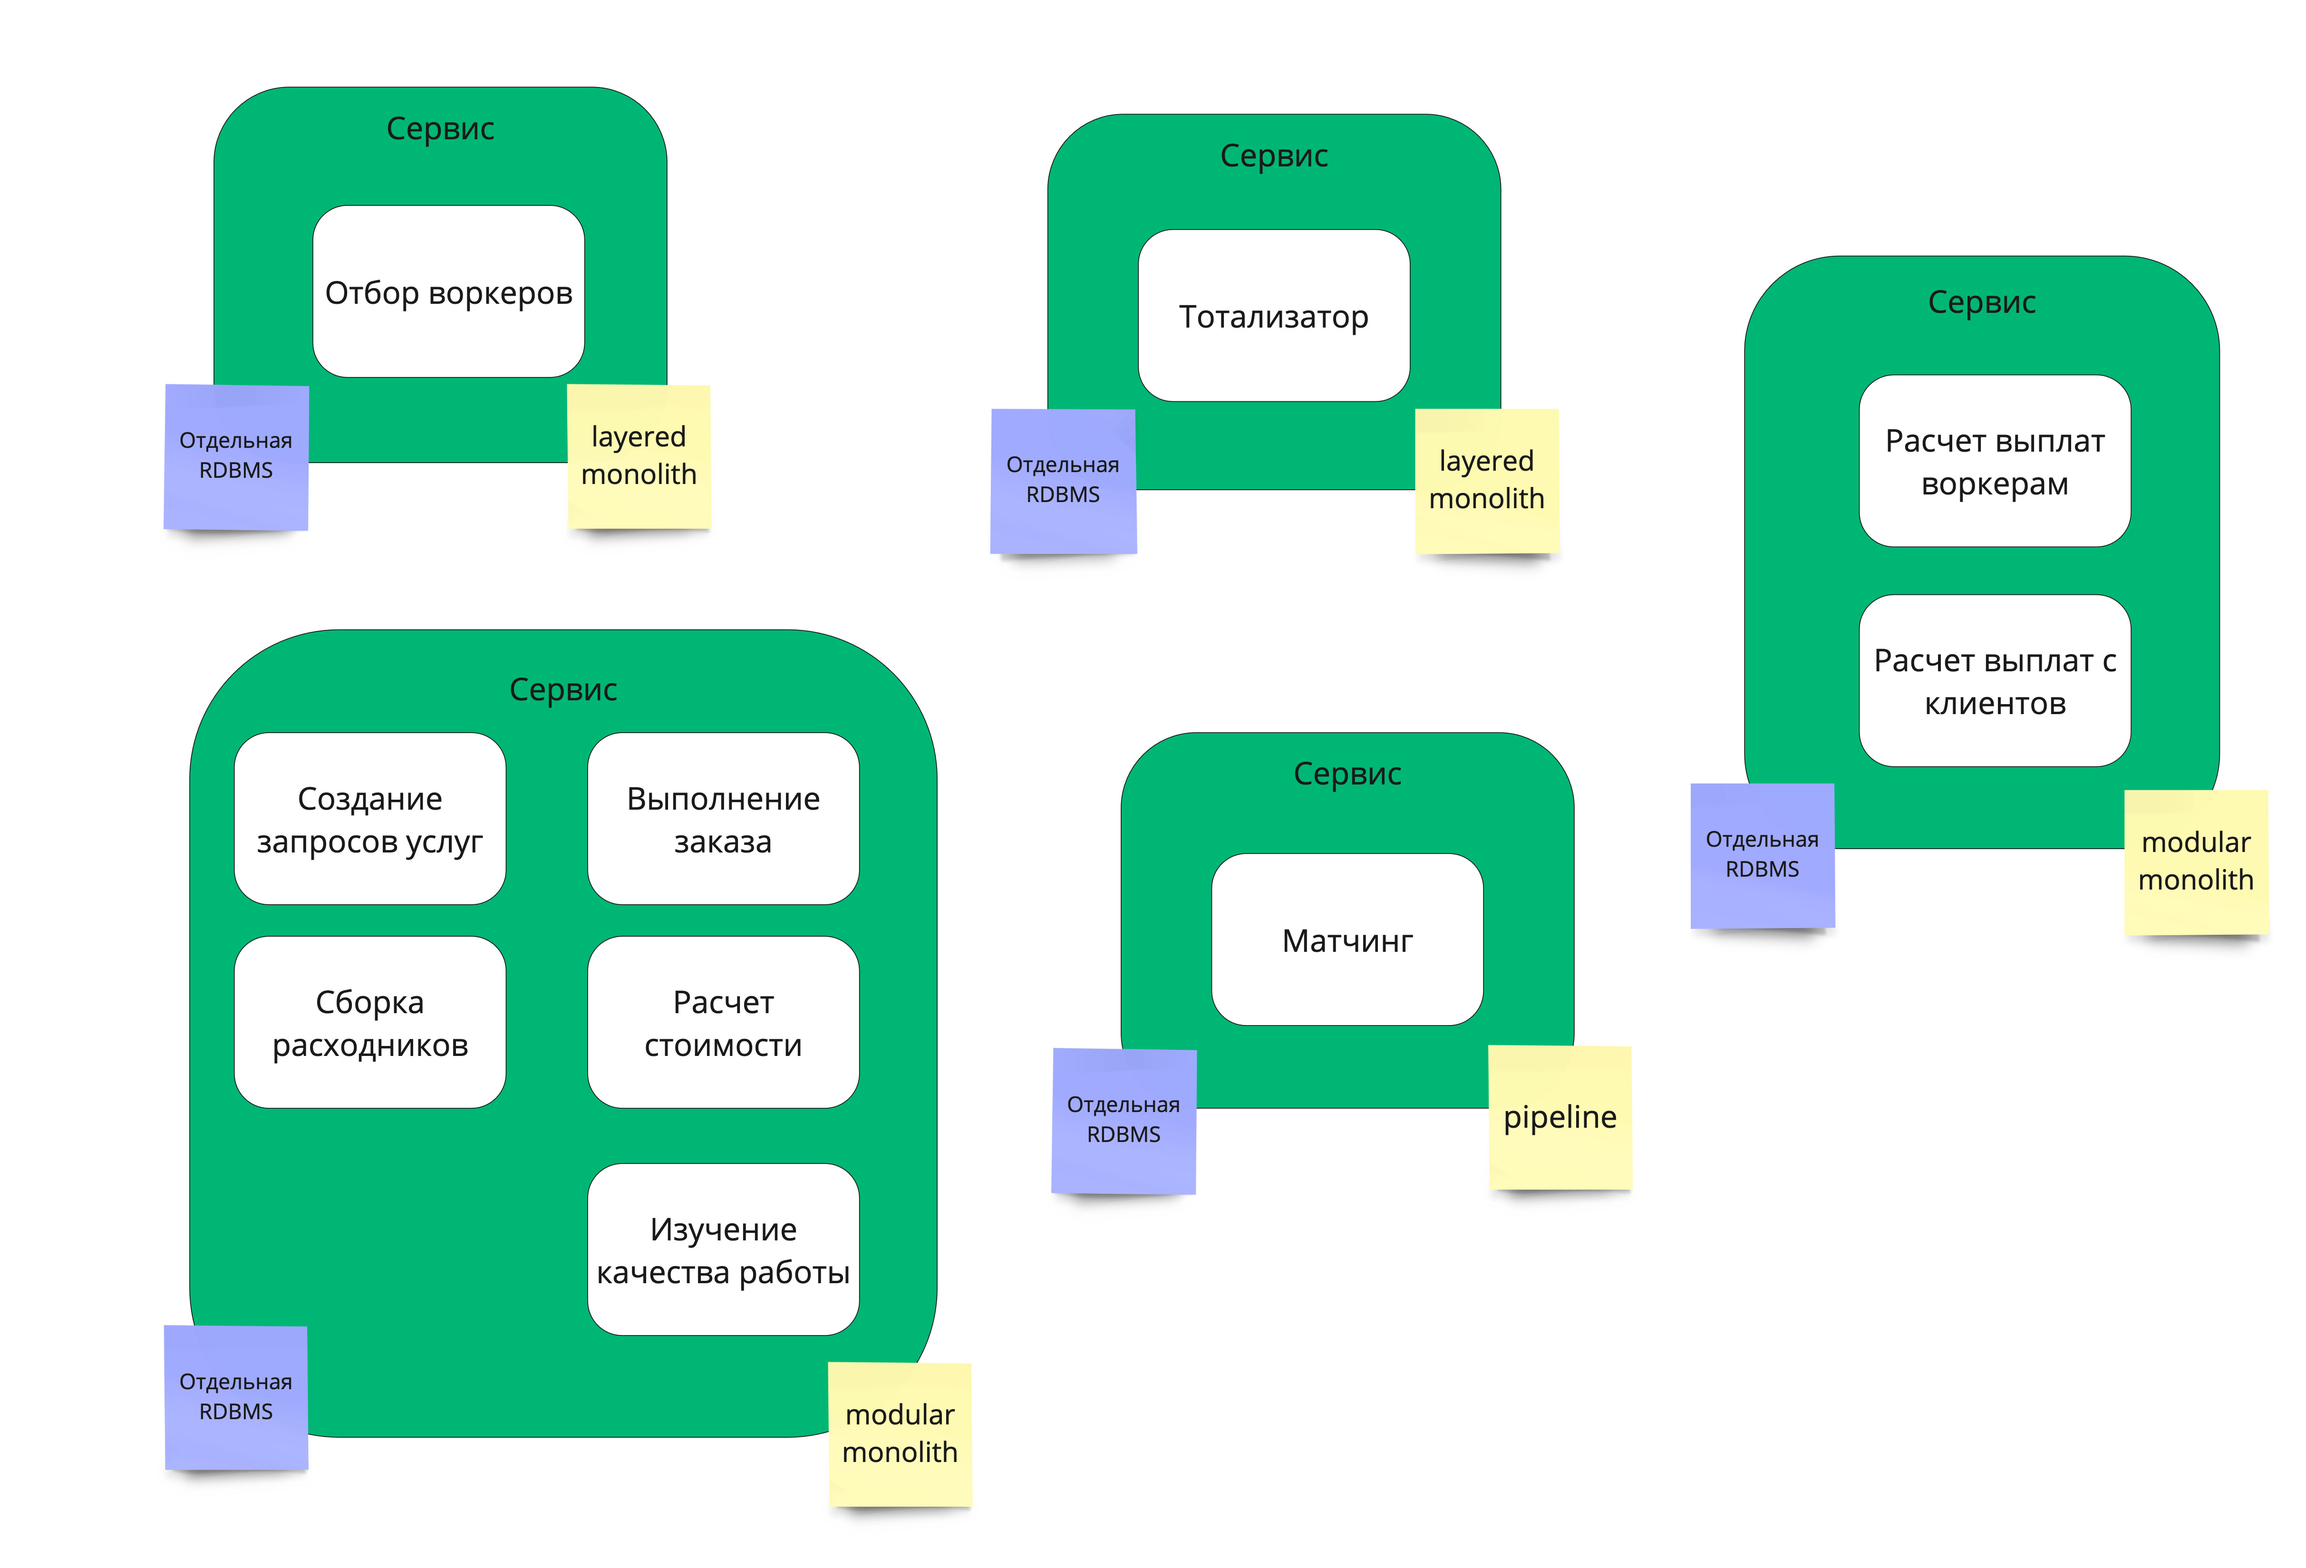
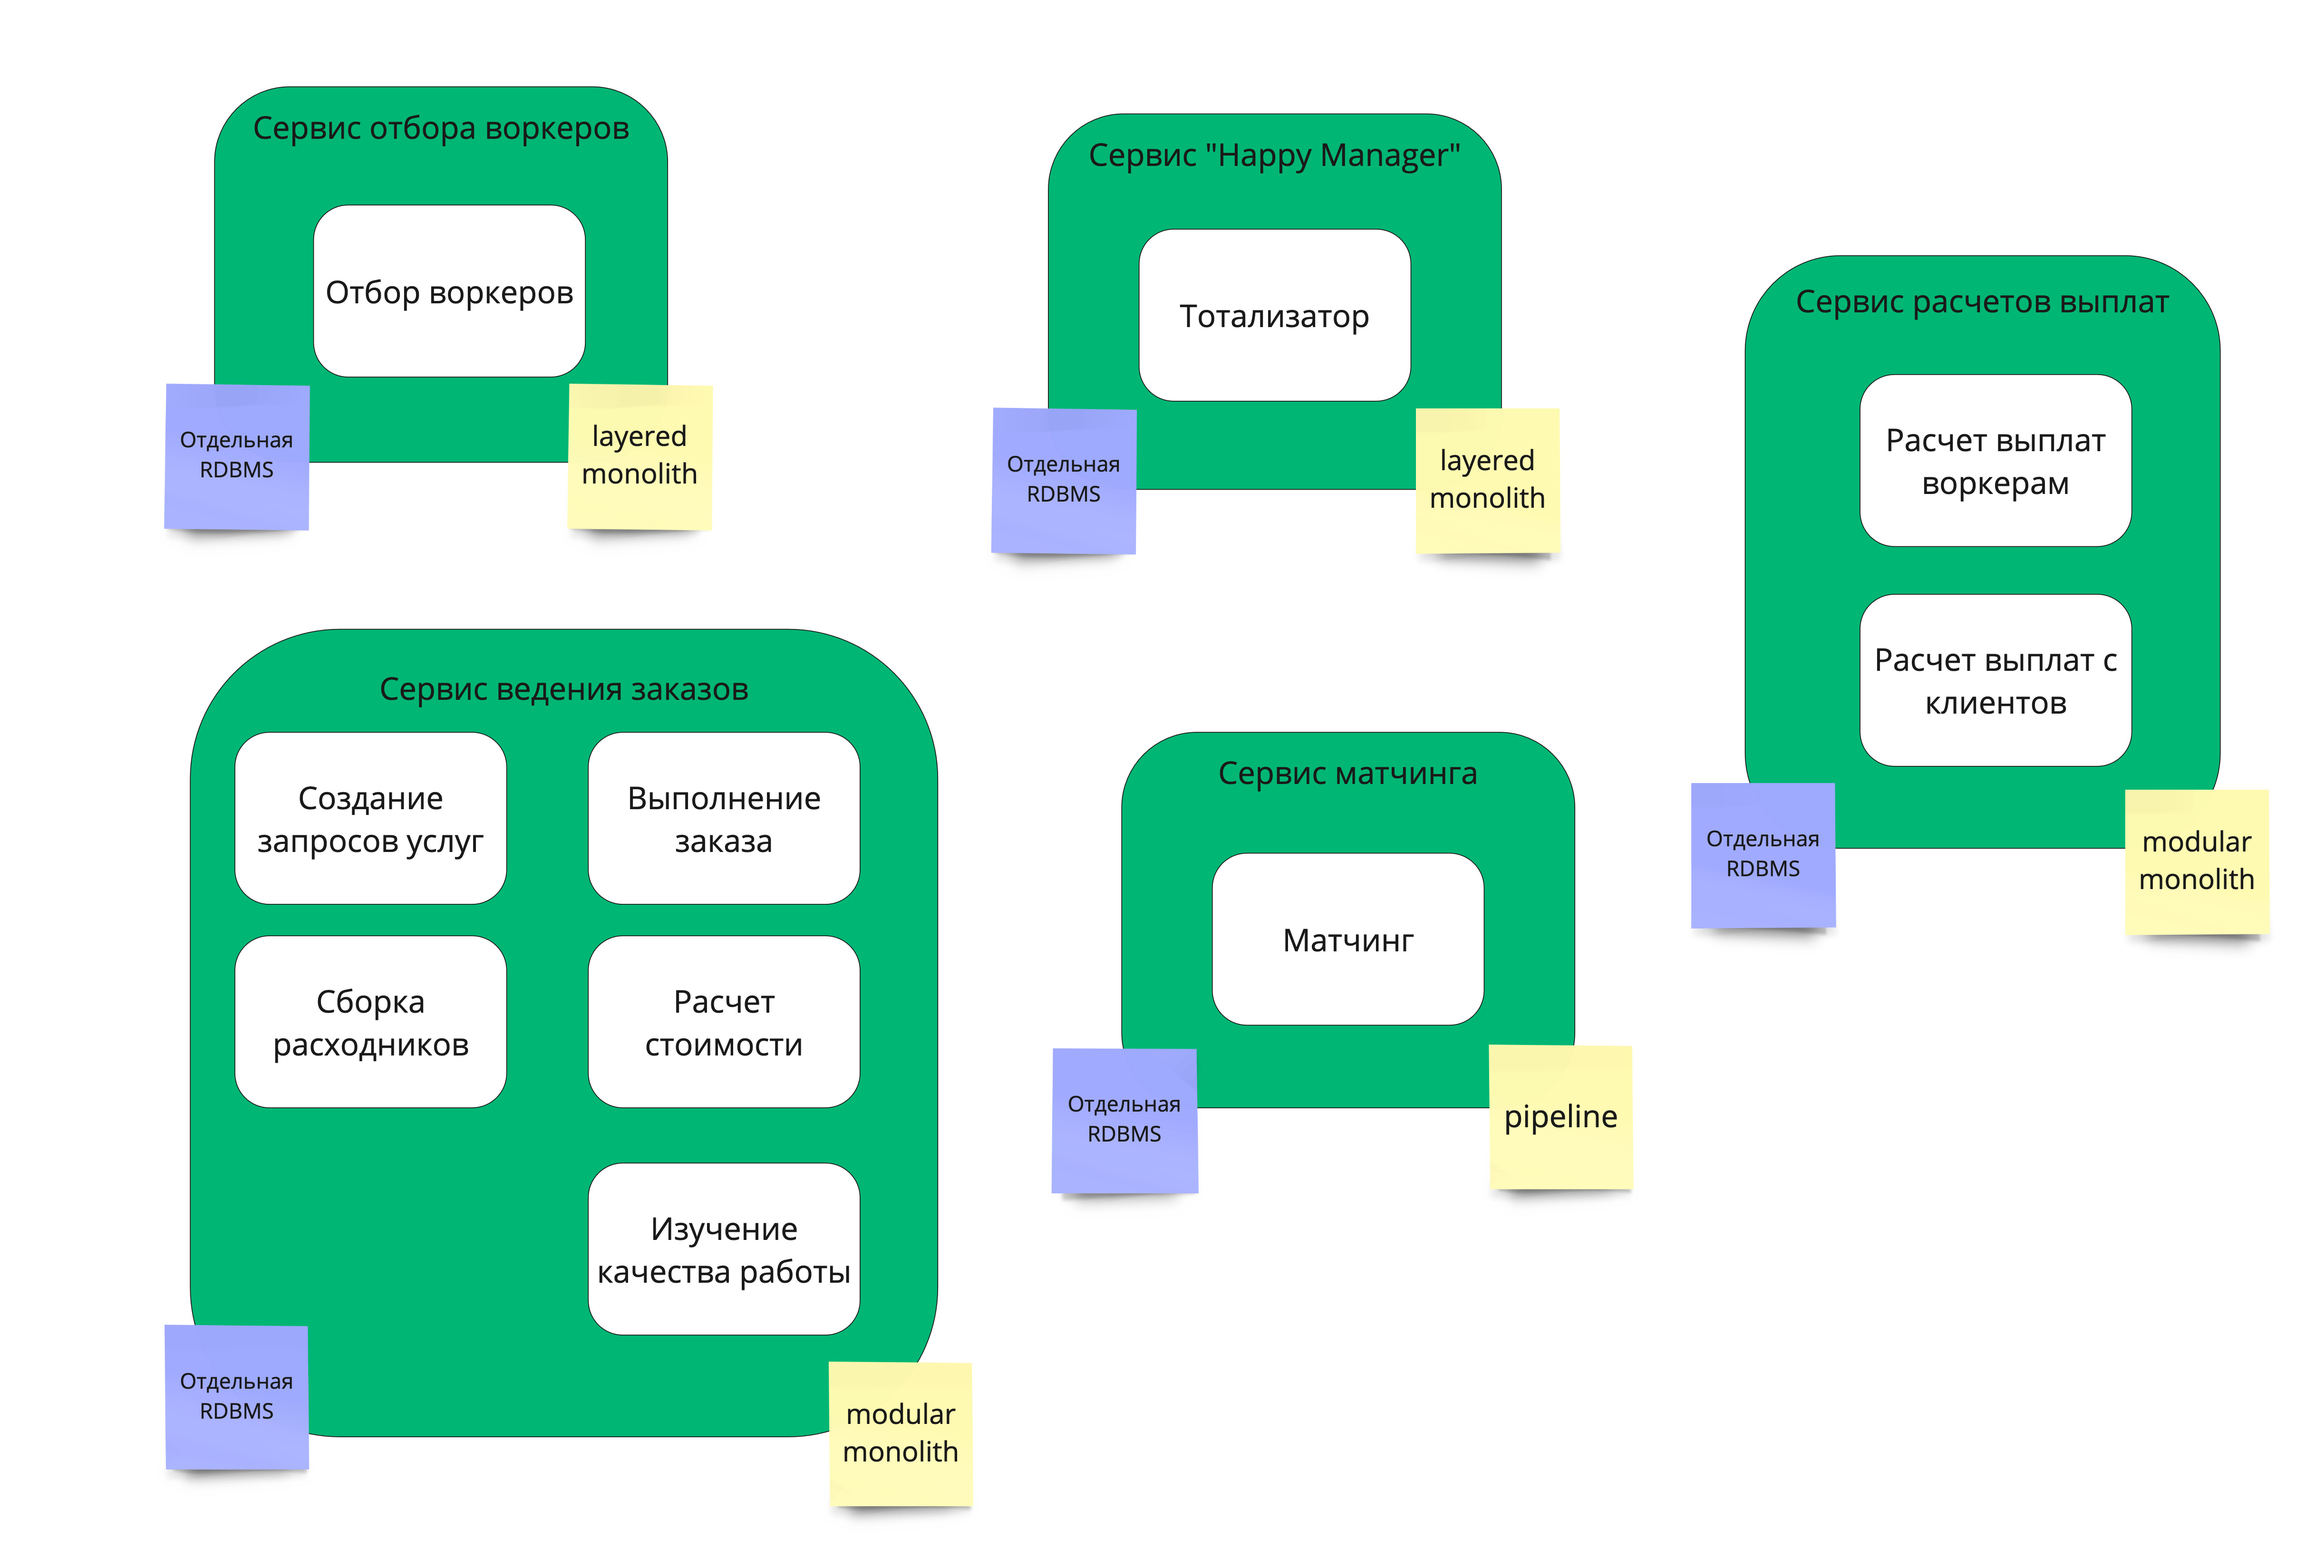
выдал каждому сервису название

diff --git a/3 - третья домашка/readme.md b/3 - третья домашка/readme.md
@@ -31,13 +31,13 @@
 
 ### Разбивка ограниченных контекстов по сервисам
 
-|Ограниченные контексты|Причина вынесения в сервис|Архитектурный стиль сервиса|БД для сервиса|
-|---|---|---|---|
-|"Отбор воркеров"|к сервису есть отдельные требования по возможности DDOS-а - см. `[US-81]` + отдельные требования по TTM - 1 релиз в неделю|`layered monolith` как стиль "по умолчанию"|из-за бесплатности инфраструктуры выбран вариант с отдельной RDBMS|
-|"Тотализатор"|к сервису есть отдельные требования по безопасности, вплоть до нераскрытия кода для других разработчиков и необходимости избежать маски-шоу. Обеспечить это в рамках одного монолита это очень сложно|`layered monolith` как стиль "по умолчанию"|из-за требований безопасности (потенциально необходимо уничтожить данные) + бесплатности инфраструктуры выбран вариант с отдельной RDBMS|
-|"Расчет выплат воркерам" и "Расчет выплат с клиентов"|из-за требований CatFinComplience, которые проще обеспечить в рамках отдельного сервиса, либо потребует наложить ограничения на всю систему|`modular monolith` из-за необходимости поддержания разделения доменной логики (несколько ограниченных контекстов в одном сервисе)|из-за требований по CatFinComplience + бесплатности инфраструктуры выбран вариант с отдельной RDBMS|
-|"Матчинг"|из-за требований `[US-300]`, где разработчики хотят выбирать язык реализации самостоятельно + специфичности алгоритма - map-reduce)|`pipeline` из-за того, что логика алгоритма будет напоминать последовательность шагов (а-ля map-reduce)|из-за бесплатности инфраструктуры выбран вариант с отдельной RDBMS|
-|все остальные - "Создание запросов услуг", "Выполнение заказа", "Сборка расходников", "Расчет стоимости", " Изучение качества работы"|---|`modular monolith` из-за необходимости поддержания разделения доменной логики (несколько ограниченных контекстов в одном сервисе)|из-за бесплатности инфраструктуры выбран вариант с отдельной RDBMS|
+|Название сервиса|Ограниченные контексты|Причина вынесения в сервис|Архитектурный стиль сервиса|БД для сервиса|
+|---|---|---|---|---|
+|Сервис отбора воркеров|"Отбор воркеров"|к сервису есть отдельные требования по возможности DDOS-а - см. `[US-81]` + отдельные требования по TTM - 1 релиз в неделю|`layered monolith` как стиль "по умолчанию"|из-за бесплатности инфраструктуры выбран вариант с отдельной RDBMS|
+|Сервис "Happy Manager"|"Тотализатор"|к сервису есть отдельные требования по безопасности, вплоть до нераскрытия кода для других разработчиков и необходимости избежать маски-шоу. Обеспечить это в рамках одного монолита это очень сложно|`layered monolith` как стиль "по умолчанию"|из-за требований безопасности (потенциально необходимо уничтожить данные) + бесплатности инфраструктуры выбран вариант с отдельной RDBMS|
+|Сервис расчетов выплат|"Расчет выплат воркерам" и "Расчет выплат с клиентов"|из-за требований CatFinComplience, которые проще обеспечить в рамках отдельного сервиса, либо потребует наложить ограничения на всю систему|`modular monolith` из-за необходимости поддержания разделения доменной логики (несколько ограниченных контекстов в одном сервисе)|из-за требований по CatFinComplience + бесплатности инфраструктуры выбран вариант с отдельной RDBMS|
+|Сервис матчинга|"Матчинг"|из-за требований `[US-300]`, где разработчики хотят выбирать язык реализации самостоятельно + специфичности алгоритма - map-reduce)|`pipeline` из-за того, что логика алгоритма будет напоминать последовательность шагов (а-ля map-reduce)|из-за бесплатности инфраструктуры выбран вариант с отдельной RDBMS|
+|Сервис ведения заказов|все остальные - "Создание запросов услуг", "Выполнение заказа", "Сборка расходников", "Расчет стоимости", " Изучение качества работы"||`modular monolith` из-за необходимости поддержания разделения доменной логики (несколько ограниченных контекстов в одном сервисе)|из-за бесплатности инфраструктуры выбран вариант с отдельной RDBMS|
 
 ![Разбивка ограниченных контекстов по сервисам](Bounded_contexts_by_services.jpg)
 
